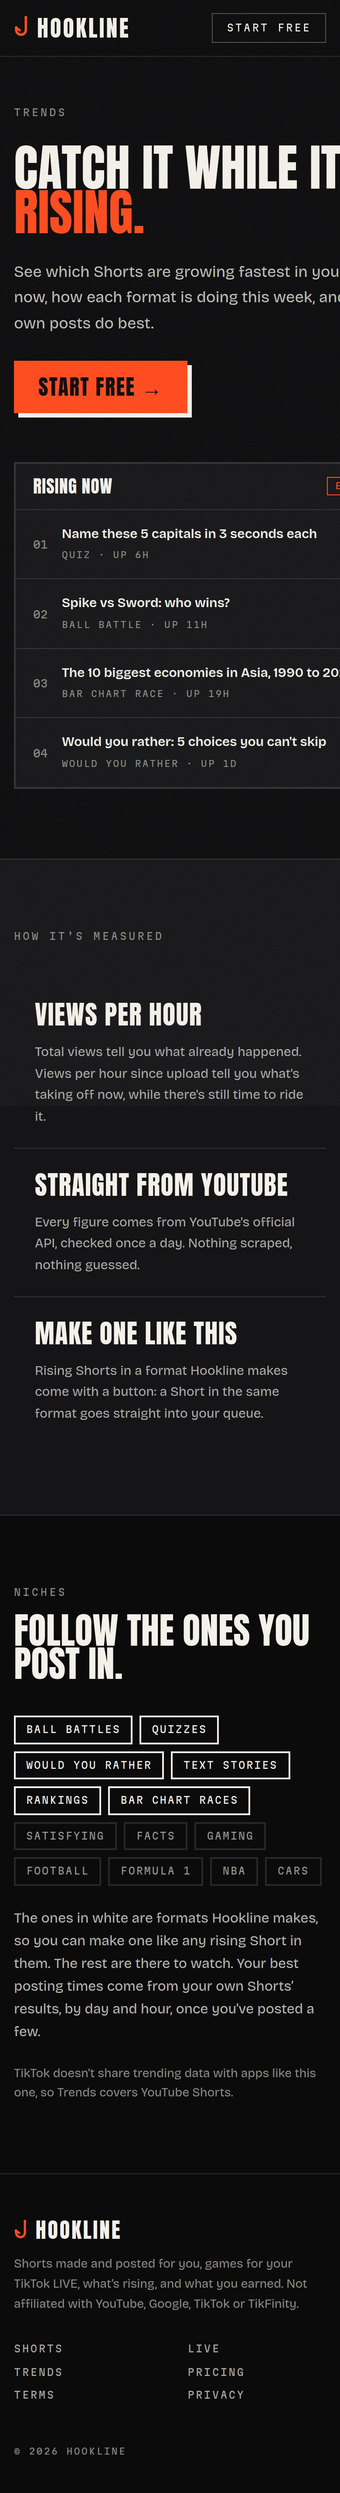
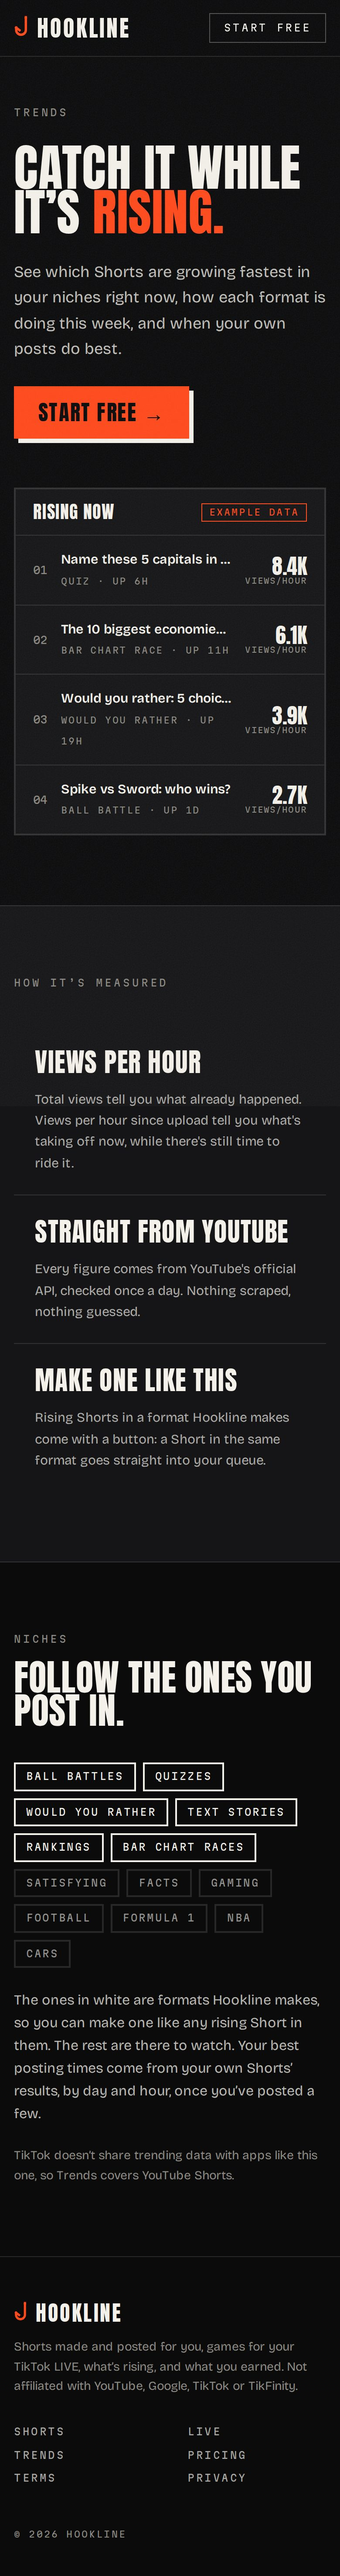
Home page: your channel runs itself
The page now leads with what Hookline does every day on its own: spots
what's rising, makes Shorts that ride it, posts the ones you say yes to at
your best hours, and learns. Trends comes first, then the formats (quiz
first, battles last), the niches to pick from, and the LIVE games as "your
LIVE runs itself too". The hero phones show a quiz and a bar chart race.
The login page, titles, README and the home link preview say the same.

Also fixes the Trends rows pushing the page wider than a phone on the home
and Trends pages.

Claude-Session: https://claude.ai/code/session_01L9fQ1taD4iHEMukrUwA4ka

diff --git a/app/page.tsx b/app/page.tsx
@@ -11,10 +11,11 @@ import { FormatDemo } from "@/components/site/format-demo";
 import { Pricing } from "@/components/site/pricing";
 import { GAMES } from "@/lib/live/games";
 import { demoShorts } from "@/lib/shorts/demos";
+import { CHANNEL_NICHES } from "@/lib/shorts/niches";
 
 export const metadata: Metadata = {
-  title: { absolute: "Hookline: content that makes itself, lives that pay" },
-  description: "Shorts made and posted for you, games your TikTok LIVE chat plays with gifts, what's rising on Shorts, and what you earned, in one place. Start free.",
+  title: { absolute: "Hookline: your channel runs itself" },
+  description: "Hookline watches what's rising on YouTube Shorts, makes Shorts in your niche that ride it, posts the ones you say yes to at your best hours, and learns from every one. Your TikTok LIVE runs itself too. Start free.",
   openGraph: { images: ["/og/home.png"] },
 };
 
@@ -27,15 +28,19 @@ const TOOLS = [
   { icon: Icons.shorts, title: "On your phone", body: "Add it to your home screen and it opens like an app. Swipe your queue on the bus." },
 ];
 
-const STEPS = [
-  { n: "01", title: "Swipe", body: "Each morning your Shorts are waiting. Right to post, left for a different one. Nothing goes out without your yes.", you: true },
-  { n: "02", title: "It posts", body: "At the hours your own Shorts do best, once it has learned them. Then it reads how each one did and makes more of what worked." },
-  { n: "03", title: "Go live", body: "Add the game to TikTok LIVE Studio once. Your chat joins with a word, and every gift does something on screen." },
-  { n: "04", title: "Watch it add up", body: "Views, subscribers, gift coins seen on your LIVEs and sales, from your real accounts, day by day." },
+const LOOP = [
+  { n: "01", title: "Spots what's rising", body: "Every day it reads the Shorts growing fastest on YouTube in your niche, by views per hour." },
+  { n: "02", title: "Makes Shorts that ride it", body: "Each morning your Shorts are made for you. When a format is taking off, you get more of it while it lasts." },
+  { n: "03", title: "Posts at your best hours", body: "Swipe right and it's booked for the hours your own Shorts do best. Left, and a different one takes its place.", you: true },
+  { n: "04", title: "Learns from every one", body: "It reads each Short's views at an hour, a day and three days, then makes more of what beat your usual." },
 ];
 
+// what the picker offers, with the Ball League last: it's one niche of eight, not the point
+const NICHES = [...CHANNEL_NICHES.filter((n) => n.id !== "league"), ...CHANNEL_NICHES.filter((n) => n.id === "league")];
+
 export default function Home() {
-  const demos = demoShorts();
+  const demos = demoShorts(["quiz", "ranking", "race", "wyr", "texts", "battle"]);
+  const [quiz, , race] = demos;
   return (
     <main className="overflow-x-clip">
       <SiteHeader />
@@ -46,45 +51,81 @@ export default function Home() {
           <div className="flex flex-col gap-7">
             <Eyebrow>
               <span className="mr-2 inline-block h-2 w-2 translate-y-[-1px] animate-blink rounded-full bg-signal align-middle" />
-              For creators who&rsquo;d rather not edit
+              Shorts and LIVEs on autopilot
             </Eyebrow>
             <h1 className="font-display text-[clamp(3.4rem,7vw,6.6rem)] uppercase leading-[0.9] tracking-[0.01em]">
-              Content that makes itself.
+              Your channel
               <br />
-              <span className="text-signal">Lives that pay.</span>
+              <span className="text-signal">runs itself.</span>
             </h1>
             <p className="max-w-xl text-lg leading-relaxed text-paper/80 sm:text-xl">
-              Hookline makes your Shorts and posts the ones you approve, runs games your TikTok LIVE chat plays with gifts, shows what&rsquo;s rising, and adds up what you made. No face, no voice, no editing.
+              Hookline watches what&rsquo;s rising on YouTube Shorts every day, makes Shorts in your niche that ride it, posts the ones you say yes to at your best hours, and learns from every one. Your TikTok LIVE runs itself too. No face, no voice, no editing.
             </p>
             <div className="flex flex-wrap items-center gap-x-6 gap-y-4 pt-1">
               <Link href="/login" className="press bg-signal px-7 py-3.5 font-display text-2xl uppercase tracking-wider text-ink">Start free →</Link>
-              <a href="#shorts" className="font-display text-2xl uppercase tracking-wider text-paper underline decoration-signal decoration-[3px] underline-offset-[6px] transition hover:text-signal">See it work</a>
+              <a href="#how" className="font-display text-2xl uppercase tracking-wider text-paper underline decoration-signal decoration-[3px] underline-offset-[6px] transition hover:text-signal">See how</a>
             </div>
             <p className="font-mono text-[11px] uppercase tracking-[0.18em] text-dim">3 Shorts a week free · The LIVE game free · No card</p>
           </div>
 
           <div className="relative mx-auto h-[600px] w-full max-w-[460px] sm:h-[680px]">
             <Phone className="absolute right-0 top-12 w-[56%] rotate-[6deg]">
-              <iframe src="/live/play?demo=1&clean=1" title="The LIVE game, with pretend viewers" className="block aspect-[9/16] w-full border-0" loading="lazy" />
+              <ShortPlayer spec={race.spec} tag={false} />
             </Phone>
             <Phone className="absolute left-0 top-0 w-[62%] -rotate-[3deg]">
-              <ShortPlayer spec={demos[0].spec} tag={false} />
+              <ShortPlayer spec={quiz.spec} tag={false} />
             </Phone>
             <span className="absolute bottom-8 left-4 -rotate-[3deg] border-2 border-ink bg-paper px-3 py-1.5 font-mono text-[10px] uppercase tracking-[0.16em] text-ink shadow-[4px_4px_0_0_var(--color-signal)]">
-              Both running right here, live
+              Real Shorts it made, playing live
             </span>
           </div>
         </div>
       </section>
 
-      {/* 01 shorts */}
+      {/* the loop */}
+      <section id="how" className="scroll-mt-16 border-t border-line bg-ink-2">
+        <div className="mx-auto max-w-7xl px-4 py-20 sm:px-8 lg:py-28">
+          <Eyebrow>Every day, by itself</Eyebrow>
+          <h2 className="mt-4 max-w-5xl font-display text-[clamp(3rem,7vw,6rem)] uppercase leading-[0.9]">It watches. It makes. It posts. It learns.</h2>
+          <p className="mt-6 max-w-2xl text-lg leading-relaxed text-paper/75">
+            The same loop runs every day for every channel you connect. Your part is one swipe: nothing goes out without your yes.
+          </p>
+          <ol className="mt-14 grid gap-px bg-line sm:grid-cols-2 lg:grid-cols-4">
+            {LOOP.map((s) => (
+              <li key={s.n} className={`flex flex-col gap-4 p-6 sm:p-7 ${s.you ? "bg-signal text-ink" : "bg-ink"}`}>
+                <span className="outline-num font-display text-7xl leading-none" style={s.you ? ({ "--stroke": "var(--color-ink)" } as React.CSSProperties) : undefined}>{s.n}</span>
+                <h3 className="font-display text-4xl uppercase tracking-wide">{s.title}</h3>
+                <p className={`text-[15px] leading-relaxed ${s.you ? "text-ink/85" : "text-paper/70"}`}>{s.body}</p>
+                {s.you && <span className="mt-auto w-fit border-2 border-ink px-2 py-1 font-mono text-[10px] uppercase tracking-[0.16em]">Your one job</span>}
+              </li>
+            ))}
+          </ol>
+        </div>
+      </section>
+
+      {/* trends */}
+      <section className="border-t border-line">
+        <div className="mx-auto grid max-w-7xl grid-cols-[minmax(0,1fr)] items-center gap-12 px-4 py-20 sm:px-8 lg:grid-cols-[minmax(0,1fr)_minmax(0,1fr)] lg:py-28">
+          <div className="flex flex-col gap-6">
+            <Eyebrow>01 · Trends</Eyebrow>
+            <h2 className="font-display text-[clamp(3rem,7vw,6rem)] uppercase leading-[0.9]">It follows the trends for you.</h2>
+            <p className="max-w-xl text-lg leading-relaxed text-paper/75">
+              Hookline reads the Shorts growing fastest in your niches every day, straight from YouTube. When a format is taking off, your next Shorts lean into it, and each one tells you why it was made. See one you like? Make one like it in a tap.
+            </p>
+            <Link href="/trends" className="w-fit font-display text-2xl uppercase tracking-wider underline decoration-signal decoration-[3px] underline-offset-[6px] hover:text-signal">More on Trends →</Link>
+          </div>
+          <ExampleTrends />
+        </div>
+      </section>
+
+      {/* shorts */}
       <section id="shorts" className="scroll-mt-16 border-t border-line bg-ink-2">
         <div className="mx-auto max-w-7xl px-4 py-20 sm:px-8 lg:py-28">
-          <Eyebrow>01 · Shorts</Eyebrow>
+          <Eyebrow>02 · Shorts</Eyebrow>
           <div className="mb-12 mt-4 grid gap-6 lg:grid-cols-[minmax(0,1fr)_minmax(0,1fr)] lg:items-end">
-            <h2 className="font-display text-[clamp(3rem,7vw,6rem)] uppercase leading-[0.9]">You swipe. It posts.</h2>
+            <h2 className="font-display text-[clamp(3rem,7vw,6rem)] uppercase leading-[0.9]">Made for you. Every frame.</h2>
             <p className="max-w-lg text-lg leading-relaxed text-paper/75">
-              Six formats, every frame drawn by code. Each Short is the best of many runs, titled from what&rsquo;s really in it, and posted at your best time once you say yes.
+              Six formats, every frame drawn by code. Each Short is the best of many runs, titled from what&rsquo;s really in it, and only ever made once: no other channel gets it.
             </p>
           </div>
           <FormatDemo demos={demos} />
@@ -92,17 +133,38 @@ export default function Home() {
         </div>
       </section>
 
-      {/* 02 live */}
+      {/* niches */}
       <section className="border-t border-line">
+        <div className="mx-auto max-w-7xl px-4 py-20 sm:px-8 lg:py-28">
+          <Eyebrow>Setup</Eyebrow>
+          <div className="mt-4 grid gap-6 lg:grid-cols-[minmax(0,1fr)_minmax(0,1fr)] lg:items-end">
+            <h2 className="font-display text-[clamp(3rem,7vw,6rem)] uppercase leading-[0.9]">Pick what your channel is about.</h2>
+            <p className="max-w-lg text-lg leading-relaxed text-paper/75">
+              That&rsquo;s the whole setup. A channel only ever gets Shorts about its niche, and each YouTube channel you connect can have its own.
+            </p>
+          </div>
+          <ul className="mt-14 grid gap-px bg-line sm:grid-cols-2 lg:grid-cols-4">
+            {NICHES.map((n) => (
+              <li key={n.id} className="flex flex-col gap-2 bg-ink p-6">
+                <h3 className="font-display text-3xl uppercase tracking-wide">{n.name}</h3>
+                <p className="text-[14px] leading-relaxed text-paper/65">{n.line}</p>
+              </li>
+            ))}
+          </ul>
+        </div>
+      </section>
+
+      {/* live */}
+      <section className="border-t border-line bg-ink-2">
         <div className="mx-auto grid max-w-7xl items-center gap-12 px-4 py-20 sm:px-8 lg:grid-cols-[minmax(0,1fr)_340px] lg:py-28">
           <div className="flex flex-col gap-6">
             <Eyebrow>
               <span className="mr-2 inline-block h-2 w-2 translate-y-[-1px] animate-blink rounded-full bg-signal align-middle" />
-              02 · For TikTok LIVE
+              03 · For TikTok LIVE
             </Eyebrow>
-            <h2 className="max-w-3xl font-display text-[clamp(3rem,7vw,6rem)] uppercase leading-[0.9]">Your chat plays. Every gift does something.</h2>
+            <h2 className="max-w-3xl font-display text-[clamp(3rem,7vw,6rem)] uppercase leading-[0.9]">Your LIVE runs itself too.</h2>
             <p className="max-w-xl text-lg leading-relaxed text-paper/75">
-              Four games your viewers join with a word. Gifts heal, drop in fighters with the gifter&rsquo;s face, call down meteors. Between rounds, chat votes for what&rsquo;s next.
+              Add the game to TikTok LIVE Studio once. Your chat joins with a word, every gift does something on screen, and between rounds chat votes for what&rsquo;s next. The best rounds come back as Shorts.
             </p>
             <ul className="grid max-w-2xl gap-px bg-line sm:grid-cols-2">
               {GAMES.map((g) => (
@@ -121,27 +183,12 @@ export default function Home() {
         </div>
       </section>
 
-      {/* 03 trends */}
-      <section className="border-t border-line bg-ink-2">
-        <div className="mx-auto grid max-w-7xl items-center gap-12 px-4 py-20 sm:px-8 lg:grid-cols-[minmax(0,1fr)_minmax(0,1fr)] lg:py-28">
-          <div className="flex flex-col gap-6">
-            <Eyebrow>03 · Trends</Eyebrow>
-            <h2 className="font-display text-[clamp(3rem,7vw,6rem)] uppercase leading-[0.9]">Catch it while it&rsquo;s rising.</h2>
-            <p className="max-w-xl text-lg leading-relaxed text-paper/75">
-              The Shorts growing fastest in your niches right now, by views per hour, straight from YouTube. See one you like? Make one like it in a tap.
-            </p>
-            <Link href="/trends" className="w-fit font-display text-2xl uppercase tracking-wider underline decoration-signal decoration-[3px] underline-offset-[6px] hover:text-signal">More on Trends →</Link>
-          </div>
-          <ExampleTrends />
-        </div>
-      </section>
-
-      {/* 04 earnings */}
+      {/* earnings */}
       <section className="border-t border-line">
         <div className="mx-auto max-w-7xl px-4 py-20 sm:px-8 lg:py-28">
           <Eyebrow>04 · Earnings</Eyebrow>
           <div className="mb-10 mt-4 grid gap-6 lg:grid-cols-[minmax(0,1fr)_minmax(0,1fr)] lg:items-end">
-            <h2 className="font-display text-[clamp(3rem,7vw,6rem)] uppercase leading-[0.9]">Every number, from where it really is.</h2>
+            <h2 className="font-display text-[clamp(3rem,7vw,6rem)] uppercase leading-[0.9]">Watch it add up.</h2>
             <p className="max-w-lg text-lg leading-relaxed text-paper/75">
               YouTube, TikTok, the gift coins seen on your own LIVEs and your Stripe sales, day by day, with goals to aim for. Real figures only. Coins stay coins, never dressed up as cash.
             </p>
@@ -150,26 +197,8 @@ export default function Home() {
         </div>
       </section>
 
-      {/* how */}
-      <section className="border-t border-line bg-ink-2">
-        <div className="mx-auto max-w-7xl px-4 py-20 sm:px-8 lg:py-28">
-          <Eyebrow>How it works</Eyebrow>
-          <h2 className="mt-4 max-w-4xl font-display text-[clamp(3rem,7vw,6rem)] uppercase leading-[0.9]">Four parts. One job is yours.</h2>
-          <ol className="mt-14 grid gap-px bg-line sm:grid-cols-2 lg:grid-cols-4">
-            {STEPS.map((s) => (
-              <li key={s.n} className={`flex flex-col gap-4 p-6 sm:p-7 ${s.you ? "bg-signal text-ink" : "bg-ink"}`}>
-                <span className="outline-num font-display text-7xl leading-none" style={s.you ? ({ "--stroke": "var(--color-ink)" } as React.CSSProperties) : undefined}>{s.n}</span>
-                <h3 className="font-display text-4xl uppercase tracking-wide">{s.title}</h3>
-                <p className={`text-[15px] leading-relaxed ${s.you ? "text-ink/85" : "text-paper/70"}`}>{s.body}</p>
-                {s.you && <span className="mt-auto w-fit border-2 border-ink px-2 py-1 font-mono text-[10px] uppercase tracking-[0.16em]">This one&rsquo;s you</span>}
-              </li>
-            ))}
-          </ol>
-        </div>
-      </section>
-
       {/* the tools around it */}
-      <section className="border-t border-line">
+      <section className="border-t border-line bg-ink-2">
         <div className="mx-auto max-w-7xl px-4 py-20 sm:px-8 lg:py-28">
           <Eyebrow>Every day</Eyebrow>
           <h2 className="mt-4 max-w-4xl font-display text-[clamp(3rem,7vw,6rem)] uppercase leading-[0.9]">Built to run your channel, not just make a video.</h2>
@@ -207,7 +236,7 @@ export default function Home() {
 
       <section className="border-t border-line bg-signal text-ink">
         <div className="mx-auto flex max-w-7xl flex-col items-start gap-8 px-4 py-20 sm:px-8 lg:py-24">
-          <h2 className="font-display text-[clamp(3.4rem,10vw,9rem)] uppercase leading-[0.92]">Stop editing.<br />Start posting.</h2>
+          <h2 className="font-display text-[clamp(3.4rem,10vw,9rem)] uppercase leading-[0.92]">Set it up once.<br />Let it run.</h2>
           <Link href="/login" className="press bg-ink px-7 py-3.5 font-display text-2xl uppercase tracking-wider text-paper">Start free →</Link>
         </div>
       </section>

diff --git a/app/login/page.tsx b/app/login/page.tsx
@@ -37,14 +37,14 @@ export default async function Login({ searchParams }: { searchParams: Search }) 
         </Link>
         <div className="flex flex-col gap-6">
           <h1 className="font-display text-[clamp(3.2rem,7vw,6.4rem)] uppercase leading-[0.9] tracking-[0.01em]">
-            Content that makes itself.<br />
-            <span className="text-signal">Lives that pay.</span>
+            Your channel<br />
+            <span className="text-signal">runs itself.</span>
           </h1>
           <ul className="grid max-w-md grid-cols-2 gap-x-6 gap-y-3 font-mono text-[11px] uppercase tracking-[0.16em] text-paper/70">
-            <li><span className="text-signal">01</span> Shorts made for you</li>
-            <li><span className="text-signal">02</span> Games for your LIVE</li>
-            <li><span className="text-signal">03</span> What&rsquo;s taking off</li>
-            <li><span className="text-signal">04</span> What you earned</li>
+            <li><span className="text-signal">01</span> Follows the trends</li>
+            <li><span className="text-signal">02</span> Makes your Shorts</li>
+            <li><span className="text-signal">03</span> Posts it for you</li>
+            <li><span className="text-signal">04</span> Runs your LIVE</li>
           </ul>
         </div>
         <p className="hidden font-mono text-[10px] uppercase tracking-[0.18em] text-dim lg:block">You approve everything before it posts.</p>

diff --git a/scripts/og.ts b/scripts/og.ts
@@ -15,9 +15,9 @@ import { frames } from "../lib/shorts/timing";
 import type { OgProps } from "../remotion/Og";
 
 async function main() {
-  const [battle, quiz, , , , race] = demoShorts();
+  const [battle, quiz, , , ranking, race] = demoShorts();
   const cards: Record<string, OgProps> = {
-    home: { kicker: "Shorts · LIVE games · Trends · Earnings", lines: ["Content that makes itself.", "Lives that pay."], spec: battle.spec, frame: Math.round(frames(battle.spec) * 0.45) },
+    home: { kicker: "Trends · Shorts · Posting · LIVE", lines: ["Your channel", "runs itself."], spec: ranking.spec, frame: Math.round(frames(ranking.spec) * 0.7) },
     shorts: { kicker: "Shorts", lines: ["You swipe.", "It posts."], spec: quiz.spec, frame: 45 + 141 + 15 + 90 + 10 },
     live: { kicker: "For TikTok LIVE", lines: ["Your chat plays.", "Gifts do the rest."], spec: battle.spec, frame: Math.round(frames(battle.spec) * 0.7) },
     trends: { kicker: "Trends", lines: ["Catch it while", "it's rising."], spec: race.spec, frame: Math.round(frames(race.spec) * 0.6) },

diff --git a/components/site/examples.tsx b/components/site/examples.tsx
@@ -10,9 +10,9 @@ import { DemoLabel } from "./chrome";
 
 const ROWS = [
   { format: "Quiz", title: "Name these 5 capitals in 3 seconds each", rate: "8.4K", age: "6h" },
-  { format: "Ball battle", title: "Spike vs Sword: who wins?", rate: "6.1K", age: "11h" },
-  { format: "Bar chart race", title: "The 10 biggest economies in Asia, 1990 to 2023", rate: "3.9K", age: "19h" },
-  { format: "Would you rather", title: "Would you rather: 5 choices you can't skip", rate: "2.7K", age: "1d" },
+  { format: "Bar chart race", title: "The 10 biggest economies in Asia, 1990 to 2023", rate: "6.1K", age: "11h" },
+  { format: "Would you rather", title: "Would you rather: 5 choices you can't skip", rate: "3.9K", age: "19h" },
+  { format: "Ball battle", title: "Spike vs Sword: who wins?", rate: "2.7K", age: "1d" },
 ];
 
 export function ExampleTrends() {

diff --git a/app/layout.tsx b/app/layout.tsx
@@ -10,7 +10,7 @@ const martian = Martian_Mono({ subsets: ["latin"], variable: "--font-martian", d
 
 export const metadata: Metadata = {
   metadataBase: new URL(process.env.NEXT_PUBLIC_SITE_URL ?? "http://localhost:3000"),
-  title: { default: "Hookline: content that makes itself, lives that pay", template: "%s · Hookline" },
+  title: { default: "Hookline: your channel runs itself", template: "%s · Hookline" },
   description: "Shorts made and posted for you, games your TikTok LIVE chat plays with gifts, what's rising on Shorts, and what you earned, in one place.",
   openGraph: { type: "website", siteName: "Hookline", images: ["/og/home.png"] },
   twitter: { card: "summary_large_image" },

diff --git a/app/trends/page.tsx b/app/trends/page.tsx
@@ -22,7 +22,7 @@ export default function TrendsSite() {
     <main className="overflow-x-clip">
       <SiteHeader current="/trends" />
       <section>
-        <div className="mx-auto grid max-w-7xl items-center gap-14 px-4 pb-20 pt-14 sm:px-8 lg:grid-cols-[minmax(0,1fr)_minmax(0,1fr)] lg:pb-28 lg:pt-20">
+        <div className="mx-auto grid max-w-7xl grid-cols-[minmax(0,1fr)] items-center gap-14 px-4 pb-20 pt-14 sm:px-8 lg:grid-cols-[minmax(0,1fr)_minmax(0,1fr)] lg:pb-28 lg:pt-20">
           <div className="flex flex-col gap-7">
             <Eyebrow>Trends</Eyebrow>
             <h1 className="font-display text-[clamp(3.6rem,9vw,7.6rem)] uppercase leading-[0.9]">

diff --git a/remotion/Root.tsx b/remotion/Root.tsx
@@ -35,7 +35,7 @@ export const RemotionRoot: React.FC = () => (
       fps={FPS}
       // long enough that the frozen frame inside isn't clipped to the card's own length
       durationInFrames={60 * FPS}
-      defaultProps={{ kicker: "Hookline", lines: ["Content that makes itself.", "Lives that pay."], spec: { format: "battle", params: { a: "fibonacci", b: "spike", seed: 1 } }, frame: 300 } satisfies OgProps}
+      defaultProps={{ kicker: "Hookline", lines: ["Your channel", "runs itself."], spec: { format: "battle", params: { a: "fibonacci", b: "spike", seed: 1 } }, frame: 300 } satisfies OgProps}
     />
   </>
 );

diff --git a/README.md b/README.md
@@ -1,12 +1,12 @@
 # Hookline
 
-Content that makes itself. Lives that pay.
+Your channel runs itself.
 
 Hookline is one place to make money from short video and TikTok LIVE, in four sections:
 
 - **Shorts**: every morning, a few faceless Shorts drawn by code (ball battles, quizzes, would you rather, text stories, rankings, bar-chart races), for each YouTube channel you connect in its own look and at its own times (up to five channels on Creator). Swipe right to keep one, left to bin it. Kept ones are rendered, titled by Claude and posted to YouTube and TikTok at the channel's best times, and whatever does well on a channel gets made more there.
 - **Live**: games for a TikTok LIVE that viewers play with chat and gifts (a ball battle, Rivals, Ball Race, Last One Standing), with a vote for the next round, settings per account and each session's real numbers. In Rivals the sides are a new rivalry every round, like Messi vs Ronaldo, and each side has its own gifts.
-- **Trends**: the Shorts growing fastest right now in the niches you follow, from YouTube's official API, the hours your own Shorts do best, and which formats are working.
+- **Trends**: the Shorts growing fastest right now in the niches you follow, from YouTube's official API, the hours your own Shorts do best, and which formats are working. The morning's Shorts lean toward the formats rising there, and say so.
 - **Earnings**: real figures from YouTube, TikTok, the LIVE games and Stripe, one chart per measure, with goals, and for each YouTube channel, its engaged views, who's watching and how far it is from the Partner Program, by YouTube Analytics.
 
 Why things are the way they are is in [DECISIONS.md](DECISIONS.md). What's waiting on someone else (app reviews, accounts to create) is in [NEXT.md](NEXT.md). Screenshots of every screen are in [docs/screens](docs/screens).
